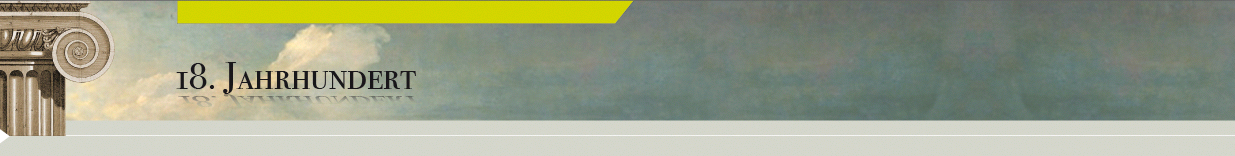
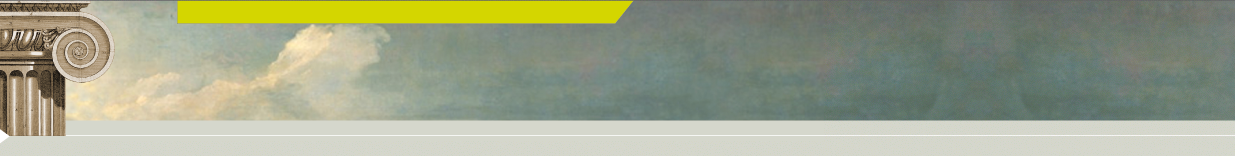
18th century final

Changed region(s): [[0.1231, 0.4103, 0.3385, 0.6667]]

diff --git a/myjportal/webpages/templates/master/template_18thCentury/CSS/style_navigation.css b/myjportal/webpages/templates/master/template_18thCentury/CSS/style_navigation.css
@@ -116,7 +116,6 @@ td.menus {
 div.main_menu {
     /*background-color: #EADFA5;*/
     background: #AEC6D4 url(../IMAGES/menu_pix.gif);
-    background-repeat: repeat-x repeat-y;
     vertical-align: top;
     min-width: 222px;
     width: auto;
@@ -186,7 +185,7 @@ div.main_menu {
     height: 11px;    
     font-family: Verdana, Arial, Helvetica, sans-serif;
 	position: absolute;
-	top: 174px;
+	top: 178px;
 	left: 30px;
 }
 
@@ -221,12 +220,18 @@ div.main_menu {
     width: 200px;
 }
 
+#navi_main_active
+{
+	background-color: #d4d600;	
+    border: 1px solid #b6b874;
+}
+
+
 .navi_main_content
 {
     vertical-align: top;
     min-width: 235px;
     padding-left: 25px;  
-    text-align: top;
     width: auto;
     border-style: none;
     /* margin-left:20px; */	/* taken out for JLZ */
@@ -274,7 +279,7 @@ font-size: 11px;
 	display: block;
 	background-color: #c7cabc;	
     color:  #000000;
-    width: 100%;
+    width: 180px;
     height: 18px;
     text-decoration: none;
     border: 1px solid #c7cabc;
@@ -302,6 +307,47 @@ font-size: 11px;
     text-decoration: none;
 }
 .navi_main td a:hover
+{	
+    font-weight : normal;	
+    color:  #000000;
+    text-decoration: underline;
+}
+
+
+
+#navi_main_active tr, #navi_main_active td{
+font-size: 11px;
+}
+
+#navi_main_active img{
+	display: block;
+	border-style: none;
+	border-width: 0px;
+}
+
+#navi_main_active th a
+{	
+	font-weight: bold;
+	padding-top: 3px;
+	padding-left: 3px;
+	display: block;
+	background-color: #d4d600;	
+    color:  #000000;
+    width: 100%;
+    height: 18px;
+    text-decoration: none;
+    border: 1px solid #b6b874;
+    /*background:url(../IMAGES/18th-normal-navi-ends.png) no-repeat;
+	*/
+}
+
+#navi_main_active td a
+{	
+    font-weight : normal;	
+    color:  #000000;
+    text-decoration: none;
+}
+#navi_main_active td a:hover
 {	
     font-weight : normal;	
     color:  #000000;

diff --git a/myjportal/webpages/templates/master/template_18thCentury/CSS/style_content.css b/myjportal/webpages/templates/master/template_18thCentury/CSS/style_content.css
@@ -9,8 +9,8 @@
 #contentArea {
     vertical-align: top;
     padding-top: 1em;
-    padding-left: 2px;
-    padding-right: 2px;
+    margin-left: 2px;
+    margin-right: 2px;
     color:  #000000;
     font-size: 12px;
     font-family: Verdana, Arial, Helvetica, sans-serif;
@@ -38,7 +38,6 @@
 #contentArea hr{
     height: 2px;
     color: #43351D;
-<!--    background-color: #15516E; -->
     border-style: none;
 }
 #contentArea a { 
@@ -67,14 +66,14 @@
 .site.sitemap tr, .sitemap th, .sitemap td, .sitemap a {
     color: #9A5B11;
     background : #FFFFFF; /* white */
-    font-size: 12;
+    font-size: 12px;
     font-family: Verdana, Arial, Helvetica, sans-serif; 
     font-weight : normal;           
     text-decoration: none;  
 }
 .sitemap a {
     color: #9A5B11;
-    font-size: 12;
+    font-size: 12px;
     text-decoration: none;
     font-weight : normal;   
 }
@@ -176,7 +175,7 @@ div.submitButton{
     height: 20px;
 }
 #resortForm td.resort, #resortForm td.resultCount{
-    vertical-align: center;
+    vertical-align: middle;
 }
 #resortForm td.resultCount{
     text-align: right;
@@ -208,7 +207,7 @@ div.submitButton{
 /* =================================================================== */
 
 #metaHeading, #metaData, #files {
-<!--    width: 100%; -->
+
 }
 #metaHeading a img, #metaData a img, #files a img {
     border: none;

diff --git a/myjportal/webpages/templates/master/template_18thCentury/JS/activelink.js b/myjportal/webpages/templates/master/template_18thCentury/JS/activelink.js
@@ -1,0 +1,37 @@
+window.onload=highlightCurrentPageLink;
+
+function highlightCurrentPageLink() 
+	{
+	 var anzHeads = document.getElementsByTagName("th").length;
+	 var checker = true; 
+			
+	 for (var i = 0; i <= anzHeads - 1; i++) 
+	 	{
+		 var anzHrefs = document.getElementsByTagName("th")[i].getElementsByTagName("a").length;
+		 
+		 for (var k = 0; k <= anzHrefs - 1; k++) 
+	 		{
+			 if (document.getElementsByTagName("th")[i].getElementsByTagName("a")[k].href == document.location.href) 
+			 	{
+			 	 document.getElementsByTagName("th")[i].getElementsByTagName("a")[k].setAttribute("id","navi_main_active");		 	
+				 checker = false;
+				}
+			}	
+		}
+	//if sublink is in use parent link still should be highlighted, but its not working yet
+	/* if(checker)
+	 	{
+	 	 var anzAs = document.getElementsByTagName("a").length;
+	 	 var whilestopper = false;
+	 	 var controltag;
+	 	 var counter = 0;
+	 	 for (var l = 0; l <= anzAs - 1; l++) 
+	 	 	{
+	 	 	 if (document.getElementsByTagName("a")[l].href == document.location.href) 
+			 	{
+			 	 controltag = document.getElementsByTagName("a")[l].parentNode.parentNode.parentNode.childNodes;
+			 	 document.write(controltag);			 	 		 
+				}
+	 		}
+	 	}	*/
+	}

diff --git a/myjportal/webpages/templates/master/template_18thCentury/CSS/style_general.css b/myjportal/webpages/templates/master/template_18thCentury/CSS/style_general.css
@@ -19,7 +19,7 @@ html, body {
 	border: 0px solid red;
 	}
 #login_div {
-	padding-top : 15px;  */
+	padding-top : 15px; 
 	padding-left : 10px;
 	min-width: 291px;
 	width:281px; 
@@ -35,7 +35,7 @@ html, body {
 	right: 5px;
 }
 #thulb_logo {
-	padding-left: 65px;  
+	padding-left: 23px;  
 }
 
 #banner {
@@ -100,10 +100,30 @@ footer2_right  {
 	height: 8px;
 }
 
-#journal-title{
+#time{
 	font-size: 14px; 
 	font-weight: bold; 
 	position:absolute; 
 	top:33px; 
 	left:200px;
+	color: black;
+}
+
+#journal-title{
+	font-family: serif;
+	font-size: 34px;  
+	position: absolute; 
+	top: 90px; 
+	left: 190px;
+	color: black;
+	z-index: 10;
+}
+
+#transparent-logo {
+	background:url(../IMAGES/18th-logo.gif) no-repeat; 
+	position:absolute; 
+	top:27px; 
+	right:30px;
+	width:447px; 
+	height:171px;
 }
